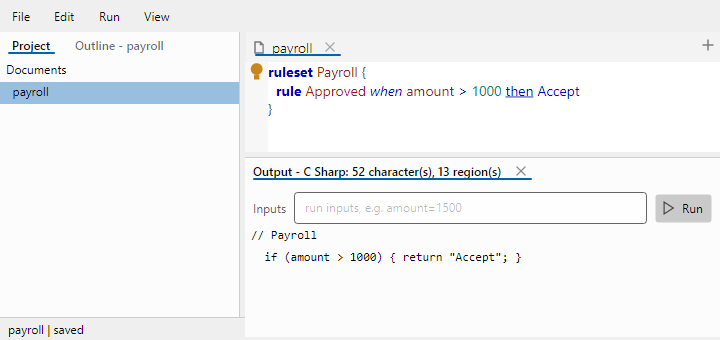
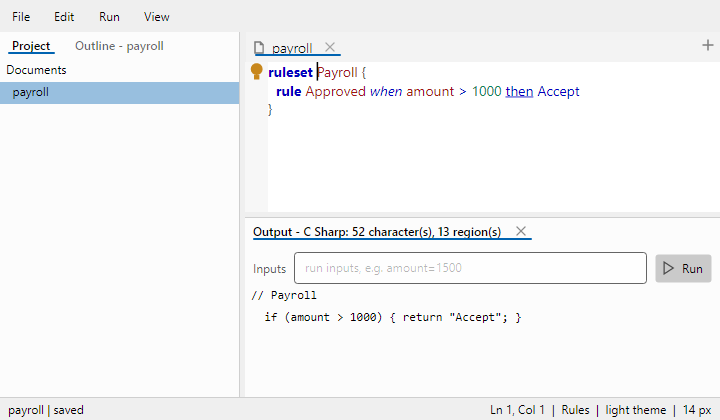
docs: the shell screenshots re-rendered, and tall enough to show a whole window
The five shell pictures were one pass behind: the two smallest windows were short enough that the
document's minimum height pushed the status bar out of the picture - the generate shot was cut off at
the bottom - and the side column in them showed one panel instead of the Project/Outline tabs.

The harness windows are now tall enough for menu + strip + a floor for the document + the panel strip +
status bar, which is exactly the sum the layout enforces. Everything else was re-rendered from the
shipping window and came out unchanged, which is the evidence that nothing else moved.

diff --git a/tools/Projectional.Screenshots/ShellShots.cs b/tools/Projectional.Screenshots/ShellShots.cs
@@ -27,11 +27,11 @@ internal static class ShellShots
     /// </remarks>
     internal static IReadOnlyList<ShellShot> All { get; } =
     [
-        new("feature-run-output", ShowRunOutput, Width: 720, Height: 380),
-        new("feature-generate-output", ShowGeneratedText, Width: 720, Height: 340),
-        new("feature-run-tests", ShowTestRun, Width: 840, Height: 420),
-        new("feature-import-file", ShowImportedDocument, Width: 720, Height: 520),
-        new("feature-find-usages", ShowFindUsagesAndDefinition, Width: 1000, Height: 560),
+        new("feature-run-output", ShowRunOutput, Width: 720, Height: 420),
+        new("feature-generate-output", ShowGeneratedText, Width: 720, Height: 420),
+        new("feature-run-tests", ShowTestRun, Width: 840, Height: 460),
+        new("feature-import-file", ShowImportedDocument, Width: 720, Height: 540),
+        new("feature-find-usages", ShowFindUsagesAndDefinition, Width: 1000, Height: 600),
     ];
 
     /// <summary>Imports an ini-shaped file into a document of the language that declares a rule for it.</summary>
